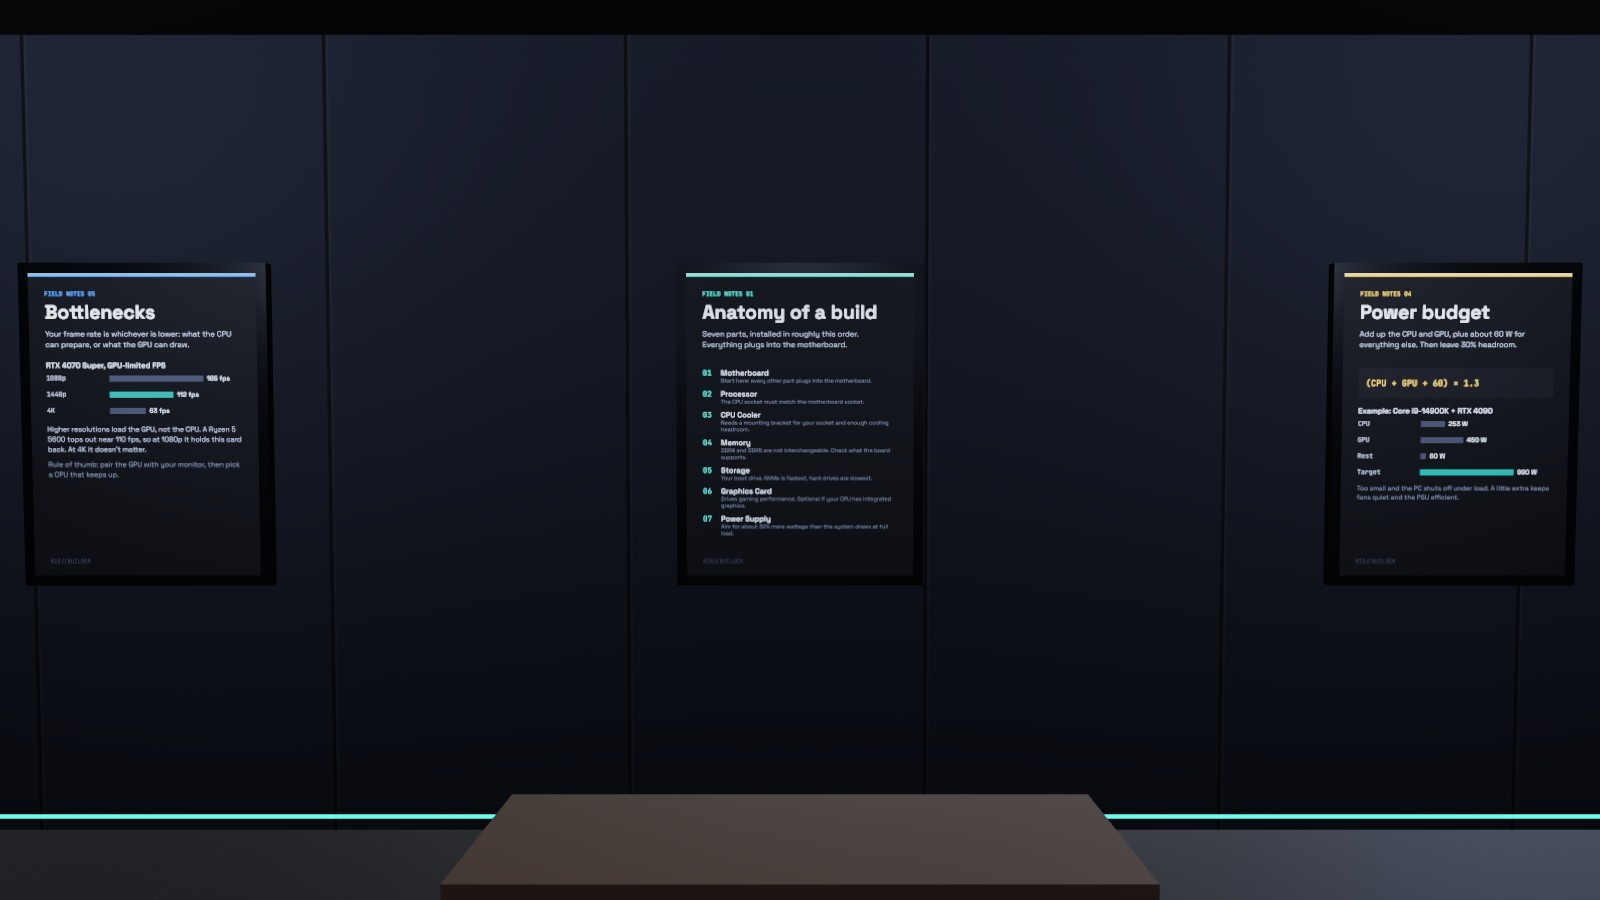
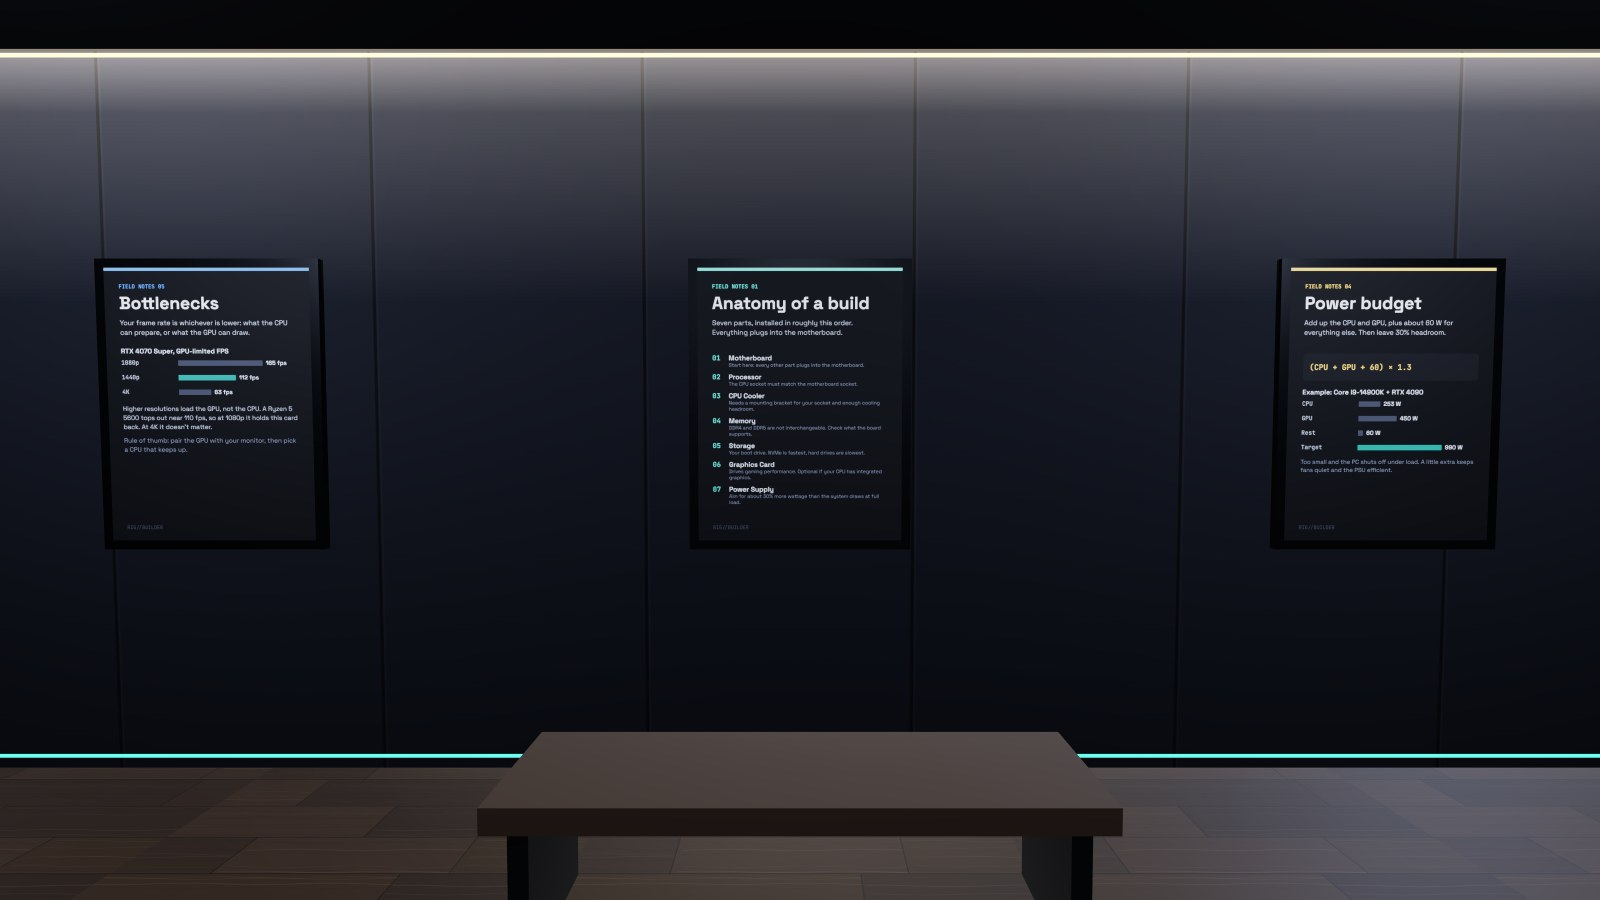
Make thrown parts topple flat and refresh README screenshots
Parts let go upright could come to rest balanced on a thin edge. They now
only rest on a side close to their thinnest, and tip over to reach it.
Add physics tests covering every type of part.

diff --git a/src/three/physics.js b/src/three/physics.js
@@ -1,23 +1,22 @@
 import * as THREE from 'three';
 
 // Just enough rigid-body physics for parts you throw in VR: gravity, bounces off the
-// floor, walls and furniture (axis-aligned boxes), friction, and settling flat.
+// floor, walls and furniture (axis-aligned boxes), friction, and toppling to lie flat.
 // Bodies don't collide with each other.
 
 const GRAVITY = 9.81;
 const RESTITUTION = 0.32;
 const FRICTION = 0.55; // share of sliding speed lost per contact step
 const MAX_BODIES = 14;
+const FLAT = 1.25; // a part can rest at up to this many times its thinnest height
+const TOPPLE = 45; // rad/s² a part tips over with
+const TIP_MEMORY = 0.25; // seconds a part keeps tipping after losing contact
 
 const corners = [...Array(8)].map(() => new THREE.Vector3());
 const tmpQ = new THREE.Quaternion();
 const tmpV = new THREE.Vector3();
 const UP = new THREE.Vector3(0, 1, 0);
-const AXES = [
-  new THREE.Vector3(1, 0, 0), new THREE.Vector3(-1, 0, 0),
-  new THREE.Vector3(0, 1, 0), new THREE.Vector3(0, -1, 0),
-  new THREE.Vector3(0, 0, 1), new THREE.Vector3(0, 0, -1),
-];
+const AXES = ['x', 'y', 'z'].flatMap((name) => [1, -1].map((sign) => ({ name, dir: new THREE.Vector3(name === 'x' ? sign : 0, name === 'y' ? sign : 0, name === 'z' ? sign : 0) })));
 
 /**
  * `solids`: world-space THREE.Box3 list; `room`: { minX, maxX, minZ, maxZ, H }.
@@ -28,7 +27,10 @@ export function createPhysics({ solids, room, onImpact }) {
 
   /** Start simulating `object` (origin at its centre) with local half extents `half`. */
   function add(object, half, velocity, spin) {
-    const body = { object, half: half.clone(), vel: velocity.clone(), spin: spin.clone(), still: 0, asleep: false, lastHit: 0 };
+    // the faces it can lie on: thin parts only their broad sides, chunky ones most sides
+    const thin = Math.min(half.x, half.y, half.z);
+    const rests = AXES.filter((a) => half[a.name] <= thin * FLAT).map((a) => a.dir);
+    const body = { object, half: half.clone(), rests, vel: velocity.clone(), spin: spin.clone(), still: 0, asleep: false, lastHit: 0, tip: 0, tipUntil: 0 };
     bodies.push(body);
     while (bodies.length > MAX_BODIES) {
       const old = bodies.shift();
@@ -75,18 +77,21 @@ export function createPhysics({ solids, room, onImpact }) {
     return n.y > 0.7;
   }
 
+  /** Tip towards the nearest stable face, slowly at first like something falling over. */
   function settle(body, dt) {
-    // turn towards the nearest face-down pose, so things come to rest lying flat
     const q = body.object.quaternion;
     let best = null, bestDot = -2;
-    for (const a of AXES) {
+    for (const a of body.rests) {
       const d = tmpV.copy(a).applyQuaternion(q).y;
       if (d > bestDot) { bestDot = d; best = a; }
     }
+    const angle = Math.acos(Math.min(1, bestDot));
+    if (angle < 1e-4) { body.tip = 0; return true; }
+    body.tip = Math.min(body.tip + TOPPLE * dt, 14 * angle + 0.3);
     tmpV.copy(best).applyQuaternion(q);
     tmpQ.setFromUnitVectors(tmpV, UP).multiply(q);
-    q.slerp(tmpQ, Math.min(1, dt * 10));
-    return bestDot;
+    q.rotateTowards(tmpQ, body.tip * dt);
+    return angle - body.tip * dt < 0.02;
   }
 
   function stepBody(body, dt, time) {
@@ -124,8 +129,11 @@ export function createPhysics({ solids, room, onImpact }) {
     let flat = false;
     if (grounded) {
       body.spin.multiplyScalar(Math.max(0, 1 - dt * 6));
-      if (body.vel.length() < 1.2) flat = settle(body, dt) > 0.999;
+      if (body.vel.length() < 1.2) body.tipUntil = time + TIP_MEMORY;
     }
+    // keep tipping through the short drops while it falls over
+    if (time < body.tipUntil) flat = settle(body, dt);
+    else body.tip = 0;
     const slow = body.vel.lengthSq() < 0.0025 && body.spin.lengthSq() < 0.05;
     body.still = grounded && slow && flat ? body.still + dt : 0;
     if (body.still > 0.4) { body.asleep = true; body.vel.set(0, 0, 0); body.spin.set(0, 0, 0); }

diff --git a/test/physics.test.js b/test/physics.test.js
@@ -1,0 +1,69 @@
+import { test } from 'node:test';
+import assert from 'node:assert/strict';
+import * as THREE from 'three';
+import { createPhysics } from '../src/three/physics.js';
+
+// carried size in metres, then the zoom it is carried at
+const PARTS = {
+  motherboard: [[0.244, 0.305, 0.034], 1],
+  cpu: [[0.04, 0.04, 0.005], 3.5],
+  'low-profile cooler': [[0.092, 0.092, 0.06], 2.17],
+  'tower cooler': [[0.069, 0.127, 0.152], 1.31],
+  'dual-tower cooler': [[0.117, 0.127, 0.152], 1.31],
+  'liquid cooler': [[0.3, 0.169, 0.149], 1],
+  'ram (short)': [[0.023, 0.133, 0.031], 1.5],
+  'ram (tall)': [[0.023, 0.133, 0.042], 1.5],
+  'hard drive': [[0.147, 0.026, 0.102], 1.36],
+  'sata ssd': [[0.1, 0.007, 0.07], 2],
+  'm.2 drive': [[0.08, 0.022, 0.002], 2.5],
+  'm.2 with heatsink': [[0.08, 0.022, 0.008], 2.5],
+  'graphics card': [[0.333, 0.082, 0.159], 1],
+  psu: [[0.232, 0.157, 0.14], 1],
+};
+const ROOM = { minX: -5, maxX: 5, minZ: -5, maxZ: 5, H: 3 };
+const desk = new THREE.Box3(new THREE.Vector3(-1, 0, -0.5), new THREE.Vector3(1, 0.75, 0.5));
+
+/** Let a part go and run for up to ten seconds; returns where it came to rest. */
+function drop([size, zoom], { at = [3, 1.2, 3], quat = new THREE.Quaternion(), vel = [0, 0, 0], spin = [0, 0, 0] } = {}) {
+  const physics = createPhysics({ solids: [desk], room: ROOM });
+  const object = new THREE.Object3D();
+  object.position.set(...at);
+  object.quaternion.copy(quat);
+  object.scale.setScalar(zoom);
+  const half = new THREE.Vector3(...size).multiplyScalar(0.5);
+  const body = physics.add(object, half, new THREE.Vector3(...vel), new THREE.Vector3(...spin));
+  let t = 0;
+  for (; t < 10 && !body.asleep; t += 1 / 72) physics.step(1 / 72);
+  object.updateMatrix();
+  const box = new THREE.Box3(half.clone().negate(), half.clone()).applyMatrix4(object.matrix);
+  return { asleep: body.asleep, t, height: box.max.y - box.min.y, bottom: box.min.y, thin: Math.min(...size) * zoom };
+}
+
+function assertFlat(r, floor, label) {
+  assert.ok(r.asleep, `${label}: never came to rest`);
+  assert.ok(Math.abs(r.bottom - floor) < 0.01, `${label}: rests at ${r.bottom.toFixed(3)}, not ${floor}`);
+  assert.ok(r.height < r.thin * 1.25 + 0.012, `${label}: ${r.height.toFixed(3)} high, thinnest side ${r.thin.toFixed(3)}`);
+}
+
+// every way to hold a box square, so each edge and face starts straight down
+const UPRIGHT = [];
+for (const x of [0, 1, 2, 3]) for (const z of [0, 1, 2, 3]) UPRIGHT.push(new THREE.Quaternion().setFromEuler(new THREE.Euler(x * Math.PI / 2, 0, z * Math.PI / 2)));
+
+for (const [name, part] of Object.entries(PARTS)) {
+  test(`${name}: lies flat however squarely it is let go`, () => {
+    UPRIGHT.forEach((quat, i) => {
+      assertFlat(drop(part, { quat }), 0, `floor, pose ${i}`);
+      assertFlat(drop(part, { quat, at: [0, 1.2, 0] }), 0.75, `desk, pose ${i}`);
+    });
+  });
+
+  test(`${name}: lies flat after being thrown`, () => {
+    let seed = 1;
+    const rnd = () => { seed = (seed * 16807) % 2147483647; return seed / 2147483647 * 2 - 1; };
+    for (let i = 0; i < 60; i++) {
+      const quat = new THREE.Quaternion(rnd(), rnd(), rnd(), rnd()).normalize();
+      const r = drop(part, { quat, at: [3 + rnd(), 1.5, 3 + rnd()], vel: [rnd() * 2, rnd() * 4, rnd() * 2], spin: [rnd() * 15, rnd() * 15, rnd() * 15] });
+      assertFlat(r, 0, `throw ${i}`);
+    }
+  });
+}

diff --git a/README.md b/README.md
@@ -4,7 +4,7 @@ Walk into a 3D PC showroom, browse the parts on display, then head to the workbe
 
 **[▶ Play it live](https://aaronkp.tech/pc_builder_simulator/)**
 
-![The showroom: display cases along the walls, the challenge board on the logo rug, and the glowing workbench at the back](docs/showroom.jpg)
+![The showroom: the lit parts wall and the workbench at the back, with the challenge board on the logo rug and display cases to the right](docs/showroom.jpg)
 
 | | |
 | --- | --- |
@@ -55,7 +55,7 @@ npm run dev
 Then open the URL Vite prints. Other scripts:
 
 ```bash
-npm test          # rules-engine unit tests
+npm test          # rules-engine and physics unit tests
 npm run build     # production build in dist/
 npm run preview   # serve the production build
 ```
